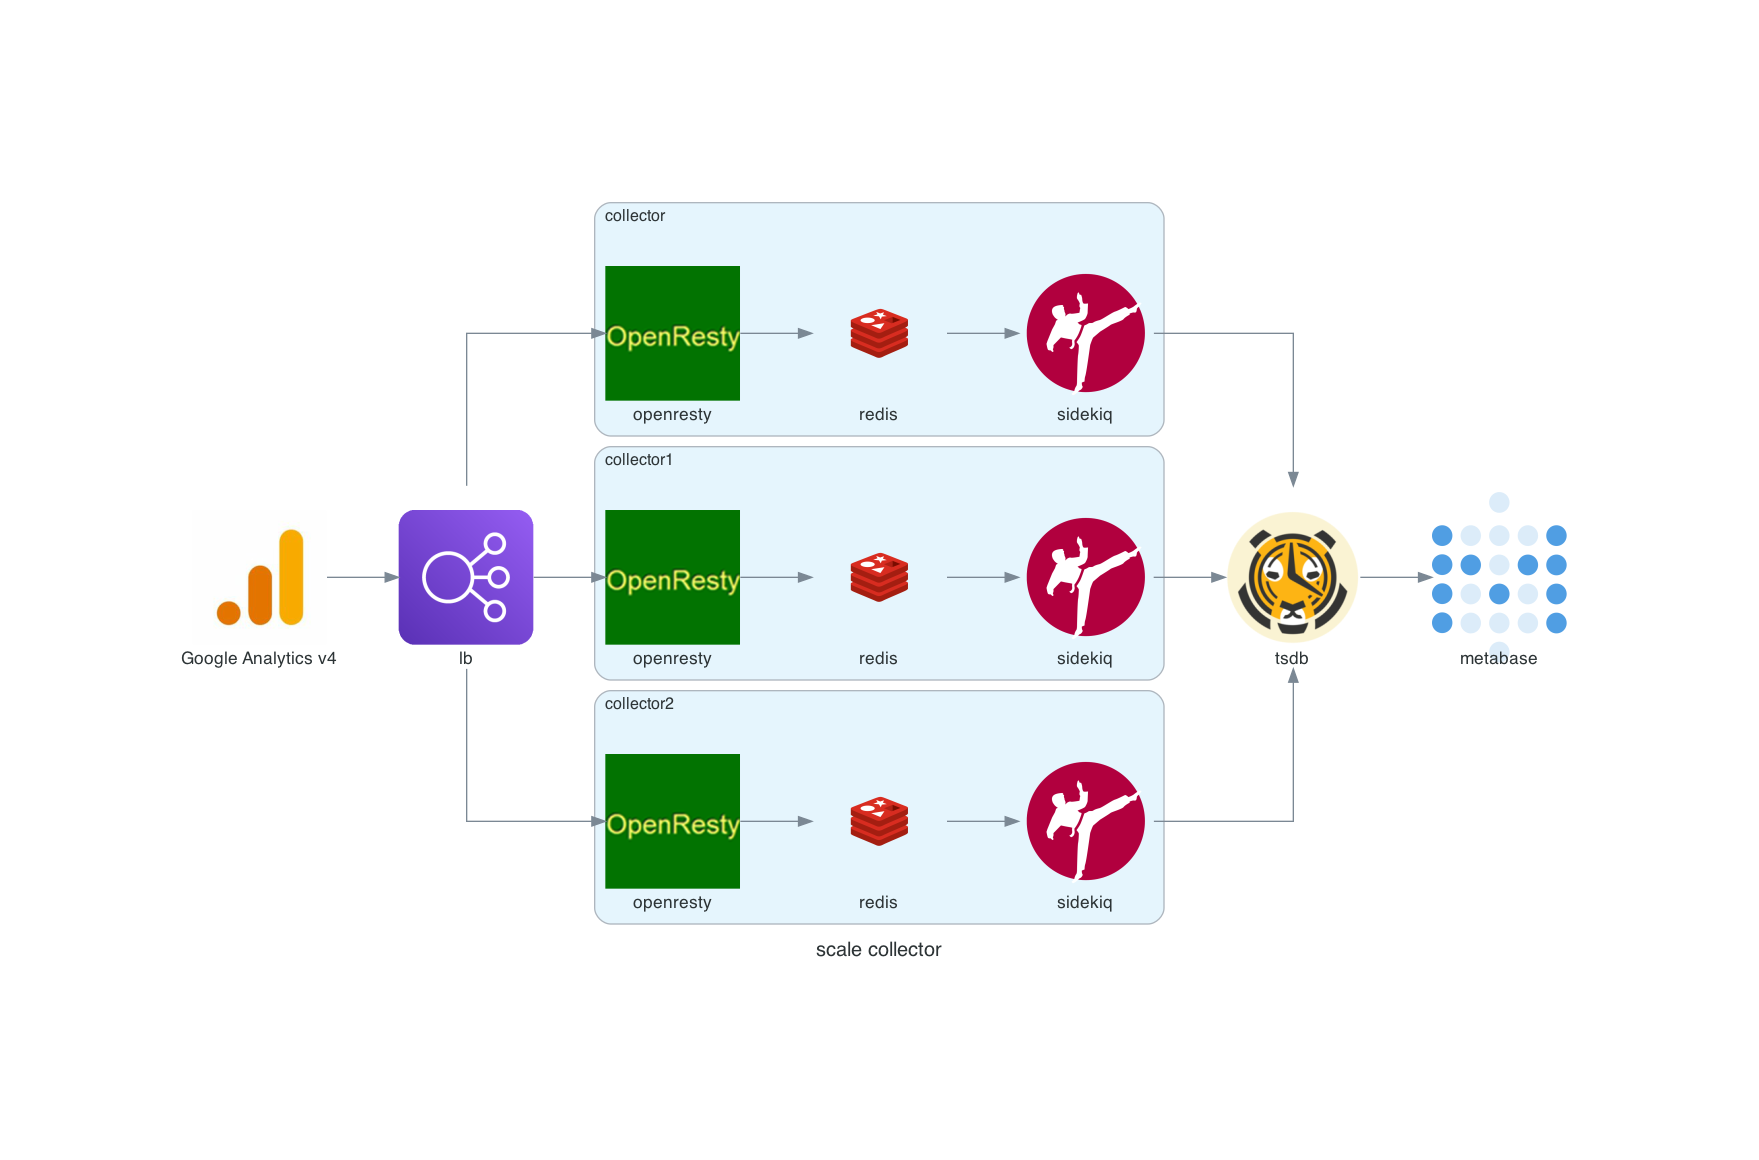
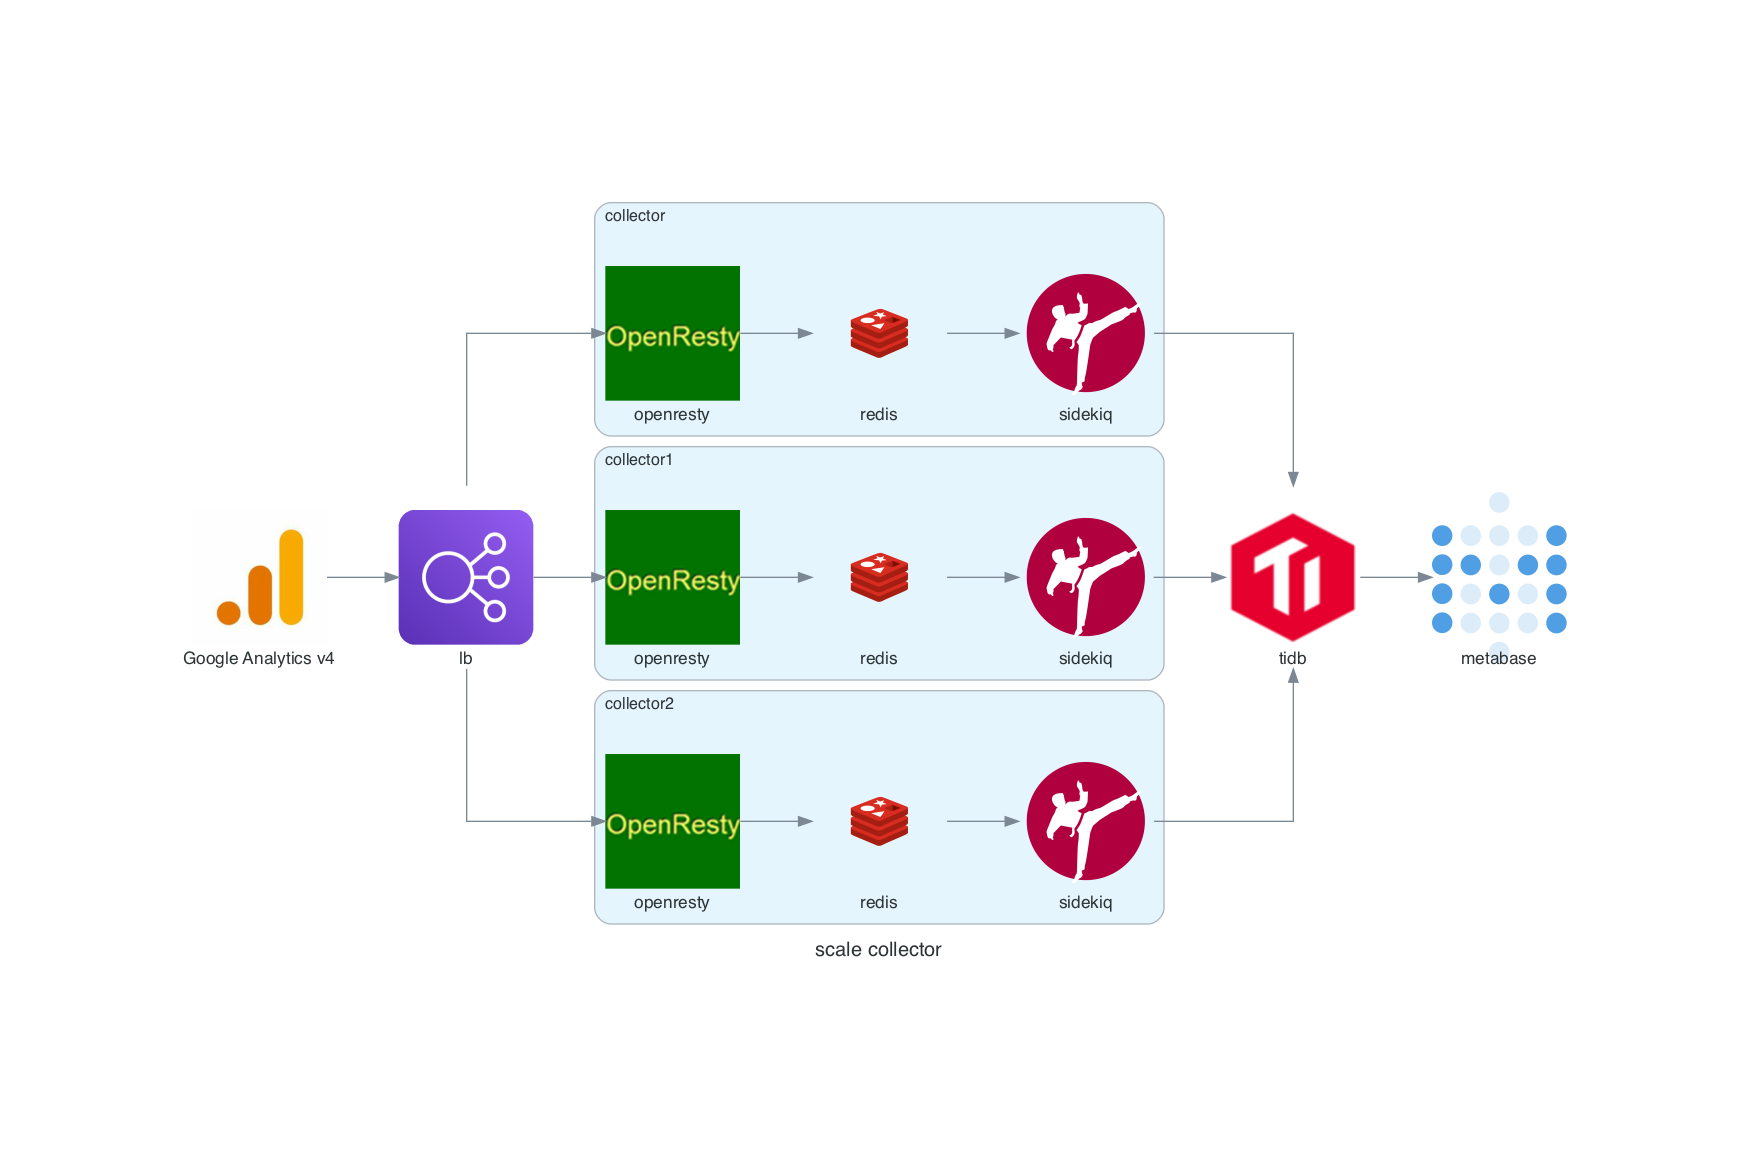
fix diagrams

diff --git a/diagrams/simple_architecture.py b/diagrams/simple_architecture.py
@@ -7,8 +7,8 @@ with Diagram("simple_architecture", show=False):
     sidekiq = Custom("sidekiq", "./imgs/sidekiq.png")
     openresty = Custom("openresty", "./imgs/openresty.png")
     rails = Custom("rails", "./imgs/rails.png")
-    postgresql = Custom("postgresql", "./imgs/postgresql.png")
-    timescaledb = Custom("tsdb", "./imgs/TimescaleDB.png")
+    
+    tidb = Custom("tidb", "./imgs/tidb.png")
     
 
     with Cluster("Self-Service BI"):
@@ -16,6 +16,6 @@ with Diagram("simple_architecture", show=False):
         chartio = Custom("chartio", "./imgs/chartio.png")
         bi = [metabase, chartio]
     
-    rails >> [postgresql, timescaledb]
-    ga >> openresty >> redis >> sidekiq >> timescaledb
-    timescaledb >> bi 
+    rails >> tidb
+    ga >> openresty >> redis >> sidekiq >> tidb
+    tidb >> bi 

diff --git a/diagrams/scale_queue.py b/diagrams/scale_queue.py
@@ -7,8 +7,8 @@ with Diagram("scale queue", show=False):
     
     openresty = Custom("openresty", "./imgs/openresty.png")
     rails = Custom("rails", "./imgs/rails.png")
-    postgresql = Custom("postgresql", "./imgs/postgresql.png")
-    timescaledb = Custom("tsdb", "./imgs/TimescaleDB.png")
+    tidb = Custom("tidb", "./imgs/tidb.png")
+    
     
 
     with Cluster("Self-Service BI"):
@@ -23,9 +23,9 @@ with Diagram("scale queue", show=False):
         sidekiq_group = [sidekiq1, sidekiq2, sidekiq3]
 
 
-    rails >> [postgresql, timescaledb]
+    rails >> tidb
     ga >> openresty >> redis >> sidekiq_group 
-    sidekiq1 >> timescaledb
-    sidekiq2 >> timescaledb
-    sidekiq3 >> timescaledb
-    timescaledb >> bi 
+    sidekiq1 >> tidb
+    sidekiq2 >> tidb
+    sidekiq3 >> tidb
+    tidb >> bi 

diff --git a/diagrams/scale_collector.py b/diagrams/scale_collector.py
@@ -5,7 +5,7 @@ from diagrams.aws.network import ELB
 with Diagram("scale collector", show=False):
     ga = Custom("Google Analytics v4", "./imgs/ga.png")
     lb = ELB("lb")
-    timescaledb = Custom("tsdb", "./imgs/TimescaleDB.png")
+    tidb = Custom("tidb", "./imgs/tidb.png")
     bi = Custom("metabase", "./imgs/metabase.png")
 
     with Cluster("collector"):
@@ -30,4 +30,4 @@ with Diagram("scale collector", show=False):
     lb >> openresty 
     lb >> openresty1
     lb >> openresty2
-    [collector_group, collector_group1, collector_group2] >> timescaledb >> bi
+    [collector_group, collector_group1, collector_group2] >> tidb >> bi
